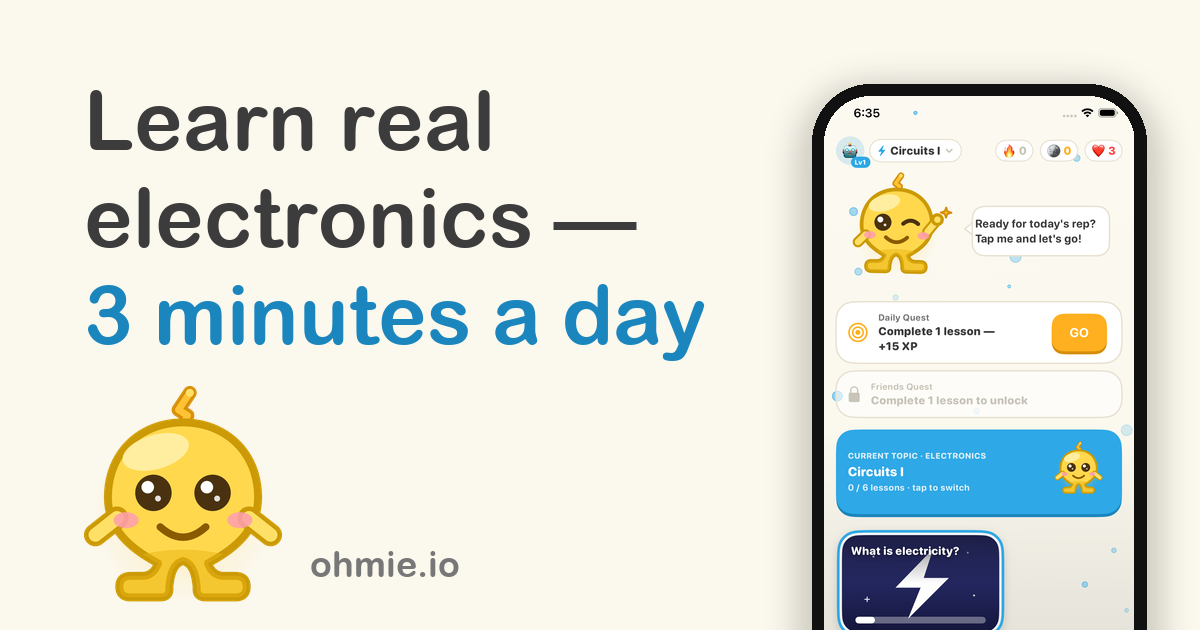
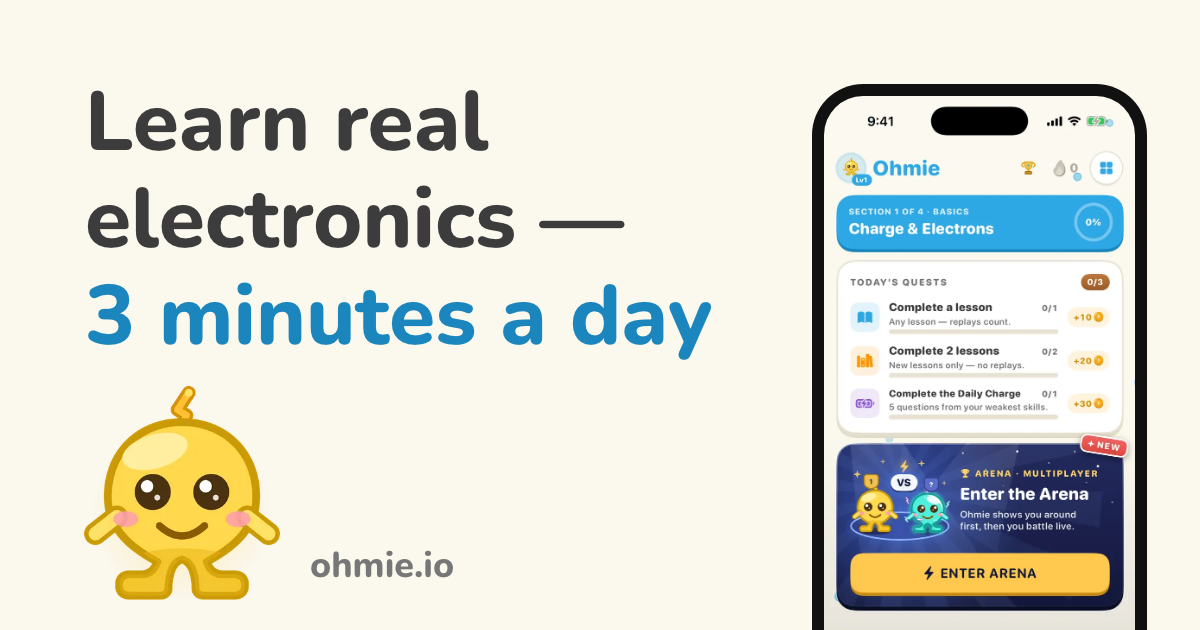
The link-preview card shows the 1.5.9 Home screen
assets/og-card.png still carried a July screenshot (the Circuits I pill, a Daily Quest
and a Friends Quest card). Same card, same layout and words; the phone now holds today's
hero capture (Section 1 of 4, today's quests, the Enter the Arena card). Ohmie stays
plain here on purpose: share previews are cached for weeks, past November 1.

og:image and twitter:image carry ?v=20261009 so share previews fetch the new picture.
1200 x 630, 207 KB.

Claude-Session: https://claude.ai/code/session_01BfgDc6hweqp7jPCCUciNii

diff --git a/index.html b/index.html
@@ -18,7 +18,7 @@
   <meta property="og:url" content="https://ohmie.io/">
   <meta property="og:title" content="Ohmie — Learn Real Electronics">
   <meta property="og:description" content="Pass circuits. 3 minutes a day. Real problems, not paragraphs — the way you'd learn a language.">
-  <meta property="og:image" content="https://ohmie.io/assets/og-card.png">
+  <meta property="og:image" content="https://ohmie.io/assets/og-card.png?v=20261009">
   <meta property="og:image:width" content="1200">
   <meta property="og:image:height" content="630">
   <meta property="og:image:alt" content="Ohmie mascot and app screenshot: Learn real electronics — 3 minutes a day">
@@ -28,7 +28,7 @@
   <meta name="twitter:card" content="summary_large_image">
   <meta name="twitter:title" content="Ohmie — Learn Real Electronics">
   <meta name="twitter:description" content="Pass circuits. 3 minutes a day. Live circuit sims you actually touch — not videos you skim.">
-  <meta name="twitter:image" content="https://ohmie.io/assets/og-card.png">
+  <meta name="twitter:image" content="https://ohmie.io/assets/og-card.png?v=20261009">
 
   <link rel="icon" type="image/png" href="assets/favicon.png?v=20261005">
   <link rel="apple-touch-icon" href="assets/apple-touch-icon.png?v=20261005">
